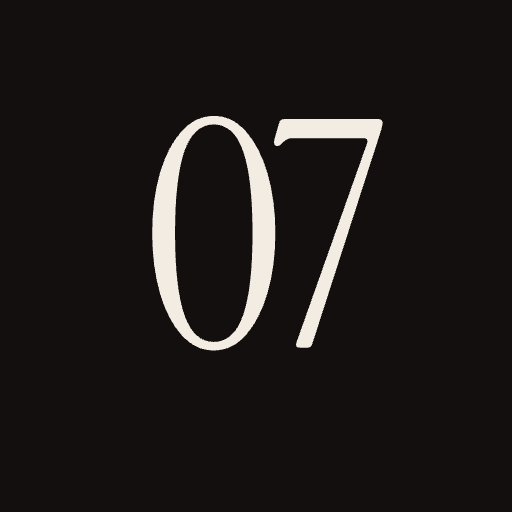
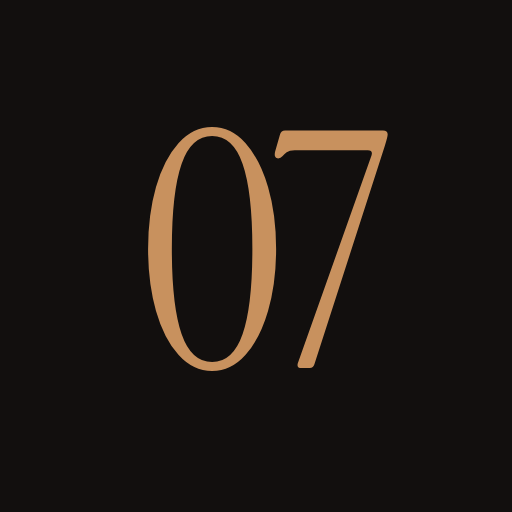
Aperçu de lien
Balises Open Graph et Twitter (titre, description, adresse atelier-07.vercel.app, image 1200x630),
nouvelle image d'aperçu (latte citrouille, texte centré dans le carré central, 104 Ko),
favicon et icônes avec le monogramme 07 doré sur fond sombre.

Changed region(s): [[0.2812, 0.2188, 0.7812, 0.75]]

diff --git a/index.html b/index.html
@@ -3,23 +3,25 @@
 <head>
 <meta charset="utf-8">
 <meta name="viewport" content="width=device-width, initial-scale=1, viewport-fit=cover">
-<title>L'Atelier 07 — Carnet de recettes chaudes &amp; glacées</title>
-<meta name="description" content="Un carnet de recettes à boire et à manger, fait maison à Montréal : cafés, thés, cocktails, douceurs, plats de saison, ustensiles et bonnes adresses.">
+<title>L'Atelier 07 · Carnet de recettes</title>
+<meta name="description" content="Cafés, thés, chocolats chauds et recettes de famille. Le carnet de Corentin, à Montréal.">
 <meta name="theme-color" content="#120F0E">
 <meta property="og:type" content="website">
 <meta property="og:site_name" content="L'Atelier 07">
 <meta property="og:locale" content="fr_CA">
-<meta property="og:title" content="L'Atelier 07 — Un carnet à boire et à manger">
-<meta property="og:description" content="Un carnet de recettes à boire et à manger, fait maison à Montréal : cafés, thés, cocktails, douceurs, plats de saison, ustensiles et bonnes adresses.">
-<meta property="og:url" content="https://kokosss007.github.io/atelier-07/">
-<meta property="og:image" content="https://kokosss007.github.io/atelier-07/og-image.jpg">
+<meta property="og:title" content="L'Atelier 07 · Carnet de recettes">
+<meta property="og:description" content="Cafés, thés, chocolats chauds et recettes de famille. Le carnet de Corentin, à Montréal.">
+<meta property="og:url" content="https://atelier-07.vercel.app">
+<meta property="og:image" content="https://atelier-07.vercel.app/og-image.jpg">
+<meta property="og:image:type" content="image/jpeg">
 <meta property="og:image:width" content="1200">
 <meta property="og:image:height" content="630">
-<meta property="og:image:alt" content="L'Atelier 07, carnet de recettes à boire et à manger">
+<meta property="og:image:alt" content="L'Atelier 07, carnet de recettes, avec un latte à la citrouille épicée">
 <meta name="twitter:card" content="summary_large_image">
-<meta name="twitter:title" content="L'Atelier 07 — Un carnet à boire et à manger">
-<meta name="twitter:description" content="Un carnet de recettes à boire et à manger, fait maison à Montréal : cafés, thés, cocktails, douceurs, plats de saison, ustensiles et bonnes adresses.">
-<meta name="twitter:image" content="https://kokosss007.github.io/atelier-07/og-image.jpg">
+<meta name="twitter:title" content="L'Atelier 07 · Carnet de recettes">
+<meta name="twitter:description" content="Cafés, thés, chocolats chauds et recettes de famille. Le carnet de Corentin, à Montréal.">
+<meta name="twitter:image" content="https://atelier-07.vercel.app/og-image.jpg">
+<link rel="icon" href="favicon.ico" sizes="48x48 32x32">
 <link rel="icon" type="image/png" sizes="32x32" href="favicon-32.png">
 <link rel="apple-touch-icon" sizes="180x180" href="apple-touch-icon.png">
 <link rel="manifest" href="site.webmanifest">
